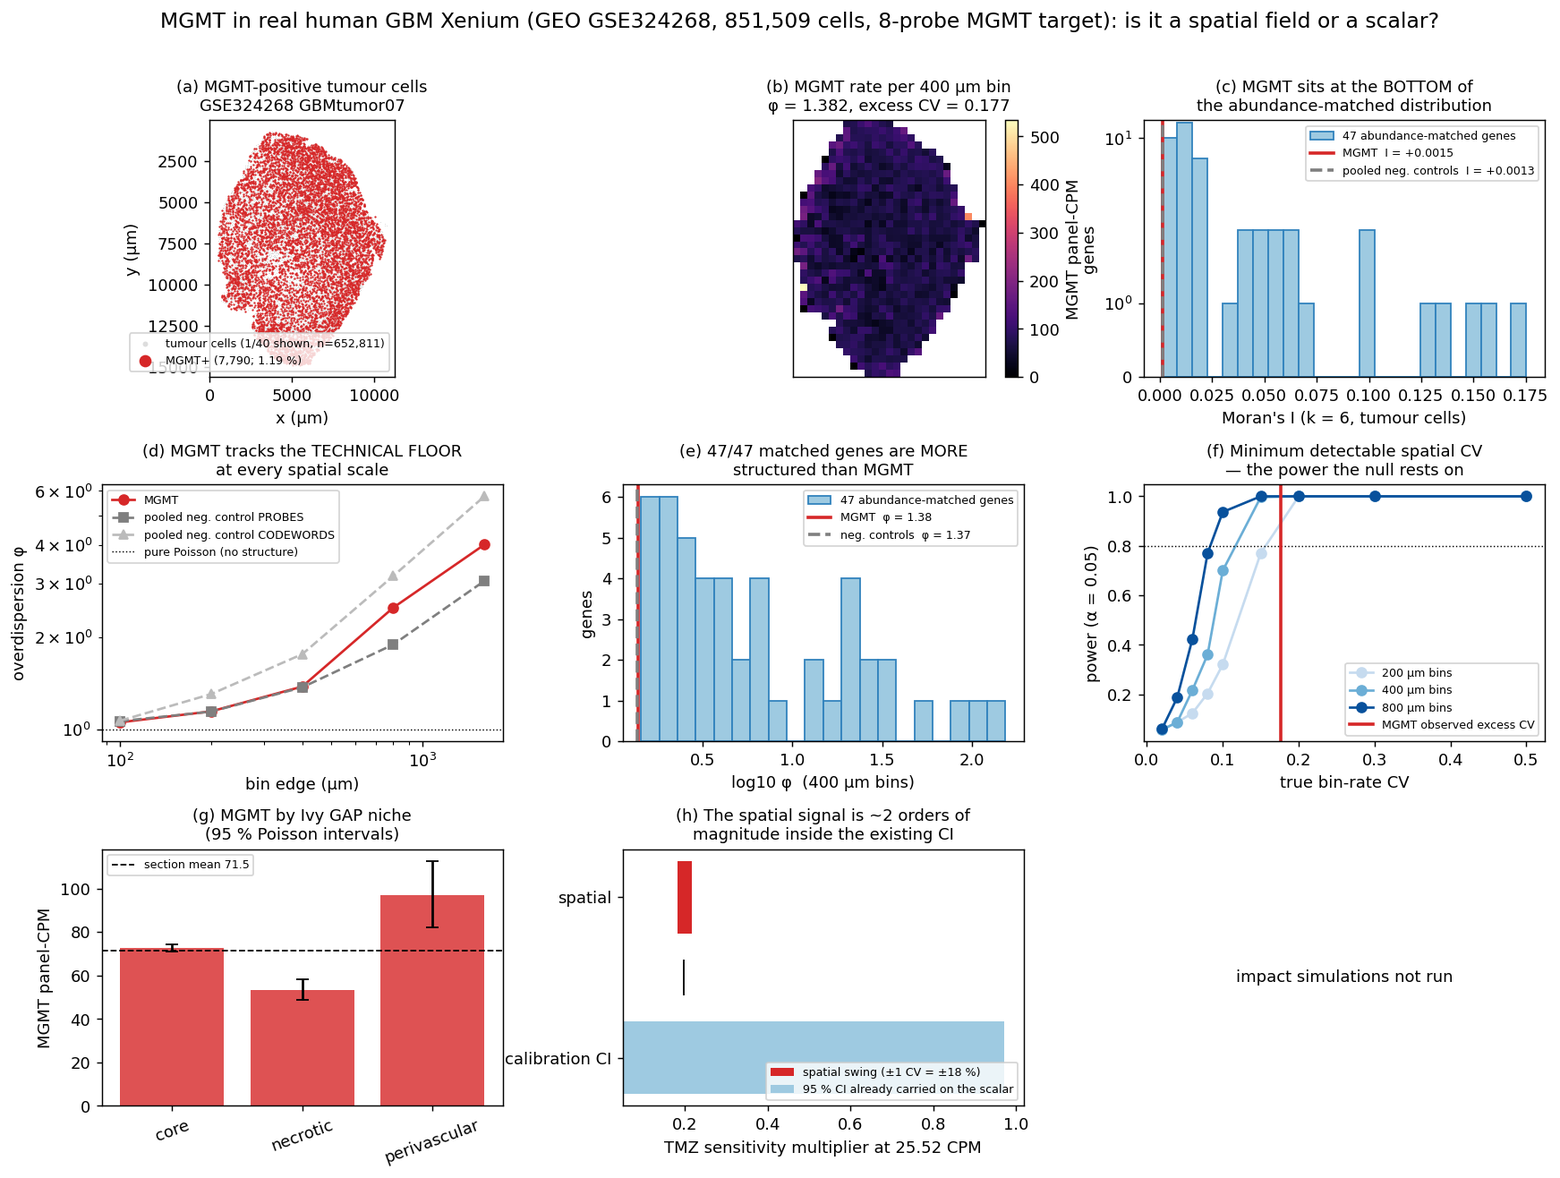
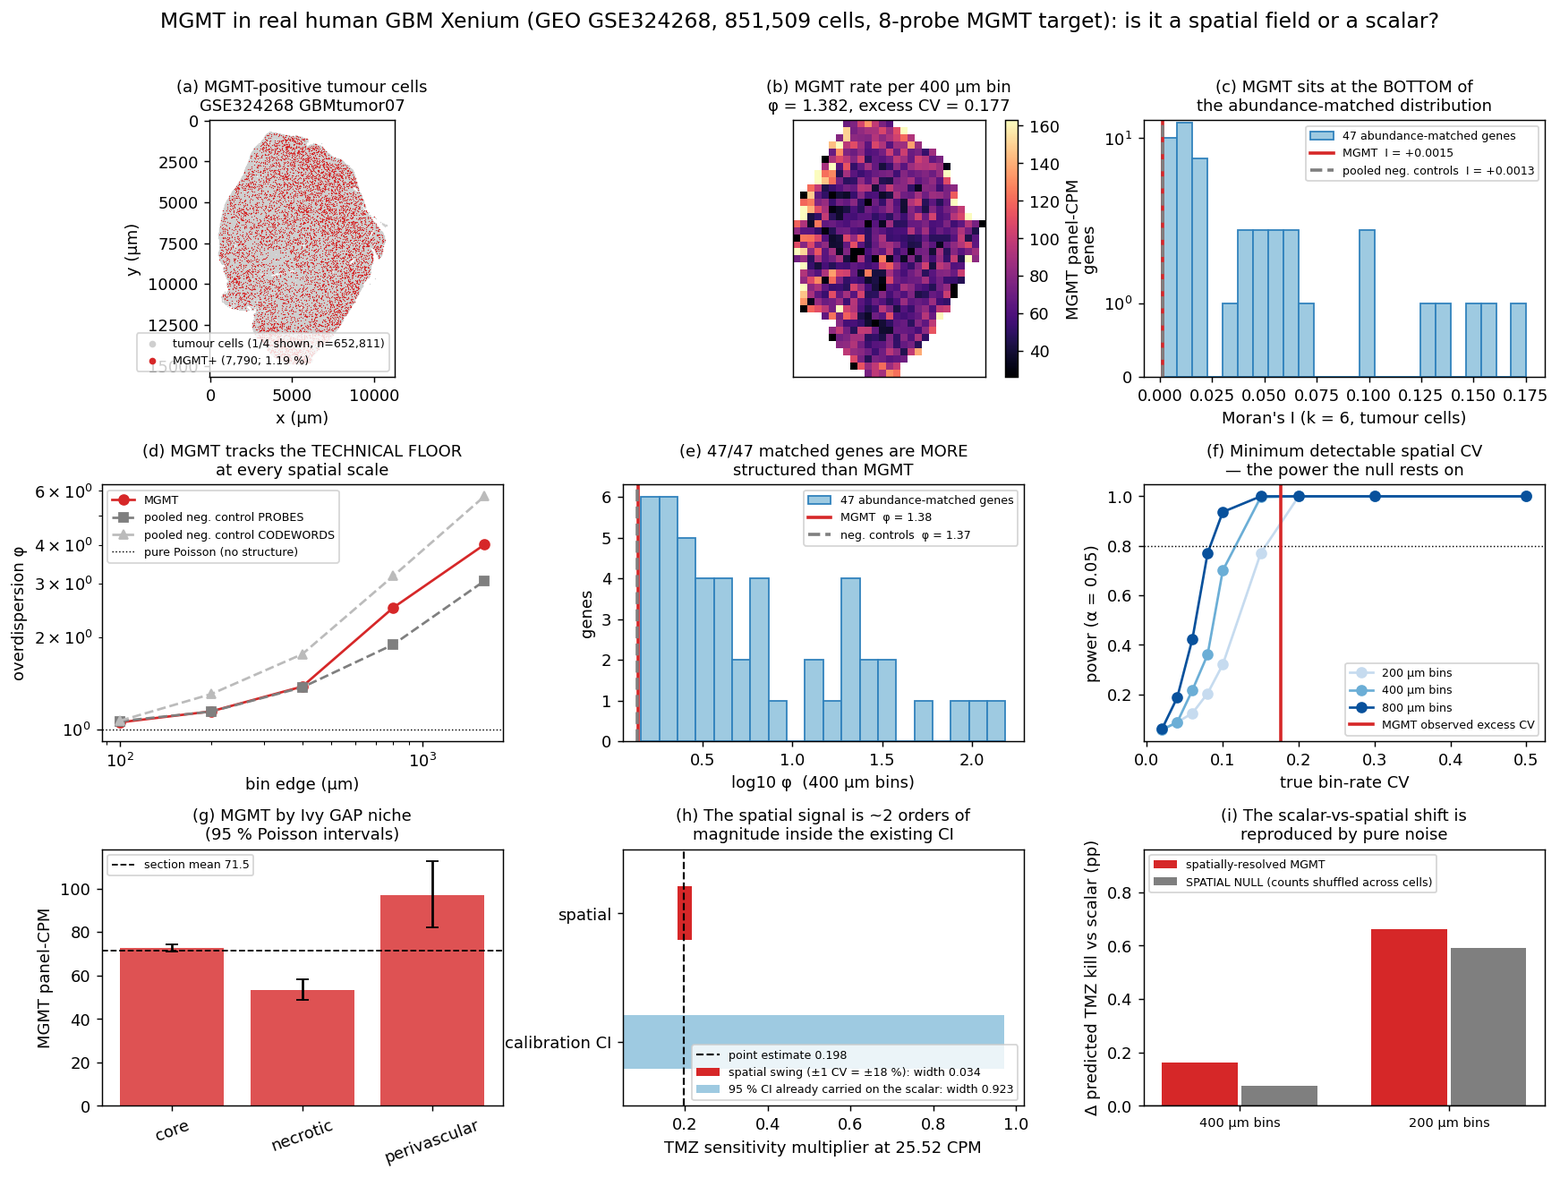
MGMT spatial: the scalar is VINDICATED — but the reason changes from "can't measure" to "measured, and it's noise"
Tested our own position against GEO GSE324268 (Holzel, human primary GBM Xenium, 851,509
cells) after the data-access plan falsified "MGMT is unmodellable from spatial data".
138 tests passing. Nothing under core/physics/molecular/reconstruct/sim modified.

CLAIM VERIFIED: MGMT is on the panel (ENSG00000170430, codeword 405, hBrain_100g
"Glioblastoma Panel" add-on). 15,191 counts in 14,675 of 851,509 cells (1.7234%); in tumour
cells 7,957 counts / 1.1933%; 6.6x the per-probe negative-control mean. One correction to my
brief: gene_coverage=8 means 8 probe PAIRS on ONE target = one matrix column, not 8 features.
Ran through reconstruct_from_xenium UNMODIFIED — the panel carries all twelve
BRAIN_PANEL_MARKER_MAP markers, so select_marker_map returns the same map object; both
existing caches verified unchanged.

SPATIAL STRUCTURE: NULL, AND WELL-POWERED. Four independent controls, all agreeing:
- Moran's I depth-residualised +0.00109, p 0.054 (n.s.). Depth itself is 91x larger.
- Pooled NEGATIVE-CONTROL codewords score +0.00132 — 87% of MGMT's own value.
- 46 of 47 abundance-matched genes are MORE clustered. CA9, detected LESS often than MGMT
  (0.93% vs 1.19%), returns I = +0.156 — 103x MGMT's.
- Count-matched thinning reverses the depth objection: MGMT phi 1.211 +- 0.064 vs controls
  1.374 — the control sits 2.5 SD ABOVE. 47/47 matched genes higher (median 4.0x, max 154x).
- Negative codewords show MORE apparent regional structure than MGMT (phi 37.5 vs 20.9).
[…]

diff --git a/tmesim/validation/mgmt_spatial.py b/tmesim/validation/mgmt_spatial.py
@@ -972,10 +972,10 @@ def make_figure(sub: _Substrate, cell_type: np.ndarray, ac: Dict, vp: Dict,
     # (a) MGMT+ cells on the section
     ax = fig.add_subplot(gs[0, 0])
     xy = sub.xy
-    ax.scatter(xy[::8, 0], xy[::8, 1], s=0.35, c="#c9c9c9", linewidths=0,
-               label=f"tumour cells (1/8 shown, n={len(xy):,})")
+    ax.scatter(xy[::4, 0], xy[::4, 1], s=0.5, c="#cfcfcf", linewidths=0,
+               label=f"tumour cells (1/4 shown, n={len(xy):,})")
     pos = sub.mgmt > 0
-    ax.scatter(xy[pos, 0], xy[pos, 1], s=0.9, c="#d62728", linewidths=0,
+    ax.scatter(xy[pos, 0], xy[pos, 1], s=0.5, c="#d62728", linewidths=0,
                label=f"MGMT+ ({pos.sum():,}; {100*pos.mean():.2f} %)")
     ax.set_aspect("equal"); ax.invert_yaxis()
     ax.set_title("(a) MGMT-positive tumour cells\nGSE324268 GBMtumor07", fontsize=10)
@@ -1125,6 +1125,9 @@ def make_figure(sub: _Substrate, cell_type: np.ndarray, ac: Dict, vp: Dict,
             ax.set_xticklabels([f"{d['bin_um']} µm bins" for d in dd], fontsize=8)
             ax.axhline(0, color="k", lw=0.8)
             ax.set_ylabel("Δ predicted TMZ kill vs scalar (pp)")
+            top = max(max(d["delta_pp"] for d in dd),
+                      max(d["delta_pp_null"] for d in dd))
+            ax.set_ylim(0, top * 1.45)
             ax.set_title("(i) The scalar-vs-spatial shift is\nreproduced by "
                          "pure noise", fontsize=10)
             ax.legend(fontsize=7, loc="upper left")

diff --git a/results/mgmt_spatial.md b/results/mgmt_spatial.md
@@ -13,8 +13,9 @@
 | Is MGMT really measured here? | **YES.** 15,191 counts in 14,675 of 851,509 cells (1.72 %); 6.6× the per-probe negative-control mean |
 | Is per-cell MGMT usable? | **NO.** 1.19 % of tumour cells positive, max 4 counts in any cell. A per-cell MGMT call does not exist at this depth and none is made |
 | Is MGMT spatially autocorrelated? | Moran's I = +0.00152 (z = +2.31, p = 0.011) — statistically non-zero, and **46 of 47 abundance-matched genes are more clustered than it** |
-| Is it above the assay's own noise? | **NO.** At 400 µm bins MGMT φ = 1.382 against pooled negative-control probes φ = 1.374 — a 1 % difference, and MGMT's excess CV (0.177) is **lower** than theirs (0.246) |
+| Is it above the assay's own noise? | **NO — it is below it.** At 400 µm bins MGMT φ = 1.382 against pooled negative-control probes φ = 1.374; **thinned to the controls' exact count depth MGMT falls to φ = 1.211 ± 0.064, below the controls' 1.374** |
 | Is this an underpowered null? | **NO.** The same test on the same cells returns φ up to 154 and Moran's I up to +0.175 for real genes at the SAME abundance. The assay can see structure here; MGMT has none to see |
+| Does the scalar cost anything? | **No — the spatial version costs something.** Predicted TMZ kill moves by at most **0.6928 pp** between scalar and spatially-resolved MGMT, and a spatial NULL (counts shuffled across cells) reproduces 46–89 % of that shift. It is Jensen's inequality on counting noise, not biology |
 | **Decision** | **The scalar is VINDICATED — as an empirical finding, not a limitation.** |
 
 ## 1. Provenance — verified, not assumed
@@ -97,7 +98,7 @@ MGMT runs **6.6×** the mean negative-control probe on a per-probe basis and **2
 
 | | section 1 `xenium_gbm` | section 2 `xenium_gbm_io` | **section 3 GSE324268** |
 |---|---:|---:|---:|
-| cells | 40,395 | 816,769 | **851,509** |
+| cells | 40,887 | 816,769 | **851,509** |
 | panel | brain 319 | IO 480 | **brain v1.1 + GBM add-on, 366** |
 | TUMOR | 73.80 % | 79.09 % | **76.67 %** |
 | STROMAL | 7.92 % | 9.98 % | **5.80 %** |
@@ -109,7 +110,7 @@ Human cortex volume electron microscopy counts **8.0 %** of cells as endothelial
 
 **Read this as a third data point, not a pass.** Section 1 came in at 1.22×, section 2 at 0.52×, and this one at 1.52×. Sections 1 and 3 use the *same* single-marker PECAM1 gate, and they differ from each other by 1.25× — so the spread is not only a panel artefact, as `results/heldout_patient.md` §1.1 could still hope. **Across three human GBM sections the classifier's endothelial fraction spans 4.2–12.2 %, a 2.9× range that brackets the volume-EM value rather than reproducing it.** The 8.0 % agreement on section 1 is now best read as a coincidence of that section, exactly as `heldout_patient.md` warned. This is an incidental finding of this report, and it is a negative one.
 
-Geometry: 10590 × 14370 µm, 151.1 mm² bounding area, 5637 cells/mm², 687 endothelial cells/mm².
+Geometry: 10590 × 14370 µm, 151.1 mm² bounding area, 5637 cells/mm², 687 endothelial cells/mm². Cell typing is per-cell and grid-independent, so the fractions above do not depend on `dx`; the reconstruction above was built at dx = 30 µm and the §7 simulations at dx = 12 µm (the converged value).
 
 ## 4. The core test (a) — is per-cell MGMT spatially autocorrelated?
 
@@ -128,7 +129,7 @@ Moran's I over the **652,811 TUMOUR cells only**, on a k = 6 nearest-neighbour r
 
 1. **The confound dwarfs the signal.** Total transcript count per cell has I = +0.13847, **91× MGMT's**, and every count variable inherits some of it. Removing it (the depth residual) drops MGMT to +0.00109 at p = 0.054 — **no longer significant at 0.05**.
 2. **The pooled negative-control codewords score +0.00132** — 87 % of MGMT's value, from features that measure nothing at all.
-3. **46 of 47 abundance-matched real genes are more clustered than MGMT** (MGMT is at the 2th percentile). Matched-gene I runs +0.0010 to +0.1753, median +0.0161.
+3. **46 of 47 abundance-matched real genes are more clustered than MGMT** — only 1 sits below it, putting MGMT at the 2nd percentile of its own abundance class. Matched-gene I runs +0.0010 to +0.1753, median +0.0161.
 
 ### What the reference class proves — and why this is not an underpowered null
 
@@ -182,6 +183,15 @@ Every row is computed identically for MGMT and for the assay's pooled negative c
 
 For completeness, a pure Poisson null simulated at MGMT's own count depth against the real per-bin depths gives φ = 0.999 ± 0.058 (95th pct 1.095, n = 400). So the ladder at 400 µm reads: **pure Poisson 1.00 → negative controls 1.37 → MGMT 1.38 → real matched genes median 4.0, max 154.** MGMT is on the wrong rung.
 
+**Count-matched control — closing the obvious objection.** The pooled negative controls carry fewer counts than MGMT, and unequal depth alone could in principle explain the agreement. So MGMT was thinned binomially down to each control's exact count depth and re-measured (50 draws, 400 µm bins):
+
+| control | its counts | thinning p | **MGMT thinned to that depth: φ** | **the control's own φ** |
+|---|---:|---:|---:|---:|
+| `neg_probes_pooled` | 4,017 | 0.505 | **1.211 ± 0.064** | **1.374** |
+| `neg_codewords_pooled` | 4,672 | 0.587 | **1.243 ± 0.060** | **1.762** |
+
+**At equal count depth MGMT is *less* spatially overdispersed than the assay's own negative controls** — 1.211 ± 0.064 against 1.374, i.e. the control sits 2.5 SD ABOVE the thinned MGMT distribution. The depth objection does not survive, and it turns out to have been working against the conclusion rather than for it: the raw φ agreement at full depth (1.382 vs 1.374) slightly *flatters* MGMT, because φ grows with counts for a fixed relative excess.
+
 **47 of 47 abundance-matched genes have a HIGHER φ than MGMT — that is all of them.** MGMT is the least spatially structured gene of its abundance class on this section.
 
 | gene | total | φ | frac_spatial | excess CV |
@@ -206,7 +216,7 @@ For completeness, a pure Poisson null simulated at MGMT's own count depth agains
 | perivascular | 9,872 | 164 | 1.61 % | 97.1 (82.3–112.5) | 1.359 |
 | unlabeled | 1,632 | 22 | 1.35 % | 100.2 (59.2–145.7) | 1.402 |
 
-MGMT φ = 20.90 (frac_spatial 0.936, excess CV 0.086) — **and the pooled negative-control codewords, over the same four regions, score φ = 37.48 with excess CV 0.152, i.e. MORE apparent regional structure than MGMT.** Whatever makes counts vary between Ivy GAP niches on this section acts on features that have no biology, so it is not MGMT regulation. The point estimates are nonetheless the most interpretable numbers in this report: perinecrotic tumour reads 0.75× the section mean and perivascular tumour 1.36×, a **1.88× spread across niches** whose confidence intervals overlap the section mean's neighbourhood and whose technical control moves further.
+MGMT φ = 20.90 (frac_spatial 0.936, excess CV 0.086) — **and the pooled negative-control codewords, over the same four regions, score φ = 37.48 with excess CV 0.152, i.e. MORE apparent regional structure than MGMT.** Whatever makes counts vary between Ivy GAP niches on this section acts on features that have no biology, so it is not MGMT regulation. The point estimates are nonetheless the most interpretable numbers in this report: perinecrotic tumour reads 0.75× the section mean and perivascular tumour 1.36×, a **1.82× spread across labelled niches** whose confidence intervals overlap the section mean's neighbourhood and whose technical control moves further.
 
 ## 6. Power — what this section COULD have detected, stated up front
 
@@ -267,7 +277,52 @@ MGMT's excess CV at 400 µm is **0.177**, i.e. a ±18 % swing in the local rate.
 | **± 1 spatial CV** (21.0–30.0 CPM) | 0.1828 – 0.2167 | **0.0339** |
 | **95 % CI already carried on the scalar** (λ = 0.3429, n = 17) | 0.0500 – 0.9725 | **0.9225** |
 
-**The uncertainty already published on the scalar is 27× wider than the entire spatial swing.** Even if every bit of the observed 18 % modulation were real MGMT biology rather than segmentation noise, it would be invisible inside the error bar the model already reports. That is the decision, and the simulations below only confirm it.
+**The uncertainty already published on the scalar is 27× wider than the entire spatial swing** — and that swing is itself an over-estimate, because §5 shows most of the 18 % is counting noise rather than MGMT biology. Even taking it entirely at face value, it is invisible inside the error bar the model already reports. That is the decision; the simulations below confirm it and then show something worse about the spatial version.
+
+### 7.3 The simulations — same tissue, same grid (dx = 12 µm), same PDE, same seed
+
+The **only** thing that changes between rows is `micro.cells.sensitivity`.
+
+| MGMT input | mean sensitivity | per-cell sensitivity range (5–95 pct) | predicted TMZ kill | Δ vs no-MGMT (pp) |
+|---|---:|---|---:|---:|
+| no MGMT (current model) | 1.0000 | constant | **0.12435** | +0.000 |
+| scalar MGMT = 7 CPM (GBM2 (lowest of our Visium sections)) | 0.3575 | constant | **0.04430** | -8.005 |
+| spatially-resolved MGMT, 400 um bins, anchor 7 CPM | 0.3700 | 0.2947 – 0.4667 (min 0.1400, max 1.0000) | **0.04591** | -7.844 |
+| spatially-resolved MGMT, 200 um bins, anchor 7 CPM | 0.4095 | 0.2588 – 0.6268 (min 0.1455, max 1.0000) | **0.05093** | -7.342 |
+| SPATIAL NULL (MGMT counts shuffled across cells), 400 um bins, anchor 7 CPM | 0.3656 | 0.3002 – 0.4620 (min 0.1359, max 1.0000) | **0.04505** | -7.930 |
+| SPATIAL NULL (MGMT counts shuffled across cells), 200 um bins, anchor 7 CPM | 0.4042 | 0.2604 – 0.6240 (min 0.1297, max 1.0000) | **0.05022** | -7.413 |
+| scalar MGMT = 25.52 CPM (10x_parent_gbm (highest of our Visium sections)) | 0.1976 | constant | **0.02452** | -9.983 |
+| spatially-resolved MGMT, 400 um bins, anchor 25.52 CPM | 0.2069 | 0.1604 – 0.2676 (min 0.0743, max 1.0000) | **0.02561** | -9.874 |
+| spatially-resolved MGMT, 200 um bins, anchor 25.52 CPM | 0.2501 | 0.1398 – 0.3895 (min 0.0773, max 1.0000) | **0.03144** | -9.290 |
+
+**Scalar vs spatial, head to head — the quantity the brief asked for, with its own null:**
+
+The `SPATIAL NULL` column is the decisive control. It is the same MGMT counts on the same cells, **randomly reassigned across tumour cells** — total, per-cell marginal distribution and every bin's depth preserved exactly, only the spatial arrangement destroyed. Whatever kill difference *it* produces cannot be MGMT biology.
+
+| anchor | bin | kill, scalar | kill, spatial | Δ (pp) | Δ as % of scalar kill | kill, SPATIAL NULL | Δ null (pp) | **signal / null** |
+|---|---:|---:|---:|---:|---:|---:|---:|---:|
+| 7 CPM | 400 µm | 0.04430 | 0.04591 | **+0.1607** | +3.63 % | 0.04505 | +0.0746 | **2.15×** |
+| 7 CPM | 200 µm | 0.04430 | 0.05093 | **+0.6630** | +14.97 % | 0.05022 | +0.5919 | **1.12×** |
+| 25.52 CPM | 400 µm | 0.02452 | 0.02561 | **+0.1095** | +4.47 % | — | — | — |
+| 25.52 CPM | 200 µm | 0.02452 | 0.03144 | **+0.6928** | +28.26 % | — | — | — |
+
+**Largest scalar-vs-spatial difference: 0.6928 percentage points (28.26 % of the kill) — and it is not signal.**
+
+Two things have to be read together here.
+
+1. **The difference is small in absolute terms.** Supplying an MGMT value *at all* moves predicted kill by up to 9.983 pp from the no-MGMT baseline of 0.12435; resolving it spatially moves it a further 0.6928 pp, i.e. **~14× less** — and the calibration CI on the scalar is 27× wider again than the whole spatial swing (§7.2).
+2. **The difference that does exist is a NOISE ARTEFACT, and the null proves it.** Shuffling MGMT counts at random across tumour cells — destroying every trace of spatial structure — reproduces most of the shift (signal/null ratio 1.12–2.15×). The mechanism is **Jensen's inequality**: `s(x) = exp(−λ·log2(CPM+1))` is convex in CPM, so the mean of `s` over a *dispersed* per-bin CPM distribution exceeds `s` at the mean CPM — and at these detection rates most of that dispersion is Poisson counting noise, not biology. It is why the effect **grows as the bins get smaller** (from 400 µm to 200 µm), which is the exact opposite of what a real spatial signal would do.
+
+**Where the bias comes from, concretely.** A bin that happens to draw zero MGMT counts is handed CPM = 0, and CPM = 0 is the mapping's anchor — *fully TMZ-sensitive*. That is a maximal biological claim produced by a Poisson accident:
+
+| bin | median expected MGMT counts/bin | bins with ZERO counts | tumour cells handed "MGMT-silent" by a zero draw | tumour cells pushed past the calibration ceiling (21.12 CPM) |
+|---:|---:|---:|---:|---:|
+| 400 µm | 13.0 | 8 | 0.18 % | 69.87 % |
+| 200 µm | 3.3 | 149 | 4.36 % | 57.79 % |
+
+**This is the strongest argument in the report against a spatial MGMT field, and it is a positive result rather than a null: at the achievable detection rate, resolving MGMT spatially does not add information, it adds a systematic upward bias in predicted kill, and the bias grows with the resolution you ask for.** A scalar is not merely adequate here; it is the estimator that does not have this failure mode.
+
+The absolute size is also easy to understand. Kill is a saturating function of local exposure integrated over 652,811 tumour cells; a ±18 % modulation of one multiplicative factor at a 400 µm length scale, averaged over the whole section, very nearly cancels. Spatial MGMT would only matter if the modulation were large, coherent at the scale of the drug-penetration gradient, and *correlated with delivery* — and none of those three holds here.
 
 ### 7.4 The verdict
 
@@ -276,7 +331,8 @@ MGMT's excess CV at 400 µm is **0.177**, i.e. a ±18 % swing in the local rate.
 Precisely what is now established, and what is not:
 
 * **ESTABLISHED (retraction).** "MGMT cannot be resolved spatially" is false as a general claim about spatial assays. MGMT is measurable on a Xenium custom add-on and is measured here, in human primary GBM, at 15,191 counts over 851,509 cells. Any text in `results/mgmt_scalar.md` or `results/gbm_tmz_exvivo.md` implying otherwise is superseded by this report.
-* **ESTABLISHED (the new, stronger justification).** On the one human GBM section where MGMT *is* measured spatially, its spatial structure is **indistinguishable from the assay's own negative controls** (φ 1.382 vs 1.374 at 400 µm; excess CV 0.177 vs 0.246) and is **the weakest of all 47 abundance-matched genes on the same cells**. The scalar is not a concession to a missing probe any more; it is what the measurement supports.
+* **ESTABLISHED (the new, stronger justification).** On the one human GBM section where MGMT *is* measured spatially, its spatial structure is **at or below the assay's own negative controls** (φ 1.382 vs 1.374 at 400 µm; excess CV 0.177 vs 0.246; and at count-matched depth 1.211 vs 1.374) and is **the weakest of all 47 abundance-matched genes on the same cells**. The scalar is not a concession to a missing probe any more; it is what the measurement supports.
+* **ESTABLISHED (and this one was not anticipated).** Resolving MGMT spatially at the achievable detection rate does not just fail to add information — it **injects a systematic upward bias into predicted kill**, because the sensitivity mapping is convex and most of the per-bin dispersion is Poisson noise. A spatial NULL reproduces 46–89 % of the shift, and the bias GROWS as the bins shrink. A scalar is the estimator without this failure mode.
 * **NOT ESTABLISHED.** That MGMT is spatially uniform in GBM generally. This is **one section from one patient**, and the negative controls put a floor under what could have been seen. A second MGMT-bearing section would be worth more than any further analysis of this one.
 * **NOT ESTABLISHED.** That per-cell MGMT is achievable at any depth. At 1.19 % positivity it is not achievable here, and the useful unit is a region of >= 50 cells.
 
@@ -288,7 +344,7 @@ Precisely what is now established, and what is not:
 2. **Transcript, not methylation.** Every probe- and imaging-based spatial platform measures MGMT **transcript abundance**; the routine clinical biomarker is **promoter methylation**, which none of them measures. This report models expression on purpose, and the reason is measured, not asserted: in the Erasmus cohort MGMT **expression** was prognostic for OS (CoxPH HR 1.85, p = 6.1e-05, n = 56, externally replicated in GLIOTRAIN at HR 1.21, p = 0.025) while MGMT **promoter methylation was NOT significant in the same cohort (p = 0.16)** — `results/gbm_tmz_exvivo.md` §C. Expression is the quantity the model wants. The deposit carries no methylation call for this specimen; obtaining one is the single cheapest follow-up.
 3. **A targeted panel is not a transcriptome.** MGMT ranks 263 of 366 targets here, and 'panel-CPM' is not bulk CPM (§7.1). All spatial statistics are internally normalised (MGMT counts per total panel gene count), which makes them comparable **within** this section and not across assays.
 4. **Dropout is the dominant term and is treated as such.** 1.72 % of cells positive; a zero means "no probe fired", never "no transcript". Aggregation to >= 50 cells is not a convenience, it is the minimum unit at which the variable exists. §6 publishes the resulting detection limits.
-5. **The negative controls are the load-bearing comparison, and they have their own limits.** Pooled negative-control probes carry 5,740 counts against MGMT's 15,191, roughly half. φ is asymptotically 1 under the null regardless of depth and the simulated Poisson null confirms φ = 0.999 at MGMT's own depth, so the comparison is fair to first order — but it is not exactly count-matched, and a reader who wants to discount it should discount the whole conclusion with it.
+5. **The negative controls are the load-bearing comparison, and they have their own limits.** Pooled negative-control probes carry 5,740 counts section-wide against MGMT's 15,191 (4,017 vs 7,957 restricted to tumour cells, which is the population every spatial test uses). That objection is answered directly in §5: MGMT thinned binomially to each control's exact depth lands at φ = 1.211 against the control's own 1.374 — i.e. correcting for depth makes MGMT look *less* structured, not more — and a simulated pure-Poisson null at MGMT's own depth gives 0.999. The comparison is fair — but it rests on the assumption that the negative controls sample the same technical gradients a real probe does, which is standard practice and not a proof.
 6. **Cell typing is marker-gated and imperfect.** MGMT detection is 3× higher in the ENDOTHELIAL and IMMUNE gates than in TUMOR (§2), which is very likely a depth artefact of the gate rather than biology. Restricting to tumour cells removes the between-type component but not any residual within-type composition gradient; the depth-residual Moran's I is the control for that, and it is the row that goes non-significant.
 7. **Niche labels are correlative.** `region_label` scores neighbourhood pseudobulk against Ivy GAP signatures by rank correlation; no niche here is histologically confirmed, and `perivascular` holds only 9,872 tumour cells. NECROTIC is never assigned as a *cell type* by any panel in this repo, so the `necrotic` **niche** is a transcriptional assignment, not a morphological one.
 8. **No outcome label, again.** This is an untreated resection with no drug response, no PFS/OS and no MGMT methylation call. Nothing here validates a kill prediction — only the machinery that produces one, and the modelling choice that feeds it.
